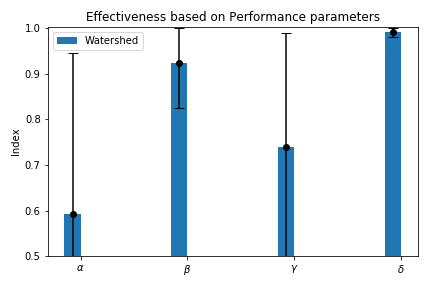
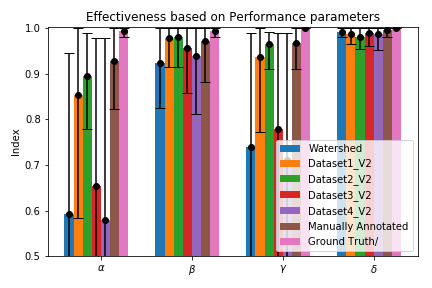
cv.commit

diff --git a/Watershed/FUNCTIONS_V3.py b/Watershed/FUNCTIONS_V3.py
@@ -860,8 +860,8 @@ def ID_renamer(ar):
     return ar
 
 def PLOT_BAR(Data, Algo,Title,Labels,Range,Save):
-    width = 0.15
-    gap = 0.2
+    width = 0.1
+    gap = 0.15
     index = -width*len(Algo)/2-gap
     
     x = np.arange(len(Labels))  # the label locations
@@ -890,40 +890,45 @@ def PLOT_BAR(Data, Algo,Title,Labels,Range,Save):
     plt.ylim(Range[0],Range[1])
     
     if "Plot" in Save:
-        plt.savefig(Title)
+        plt.savefig((Title+"_BAR"))
     
 def PLOT_BOX(Data, Algo,Title,Labels,Range,Save):
-    width = 0.15
-    gap = 0.2
-    index = -width*len(Algo)/2-gap
-    
-    x = np.arange(len(Labels))  # the label locations
-    fig, ax = plt.subplots()
-    
-    a = 0
-    X = x + index
-    while a < len(Algo): #[a][metric][min,AVG,max]
-        if a == 0: X += gap
-        else: X += width
-        
-        ax.bar(     X, Data[a][1], width=width, label=Algo[a].split("/",1)[-1] )
-        ax.errorbar(X, Data[a][1], yerr=[Data[a][0], Data[a][2]], fmt='ko', capsize=5)
-        a += 1
-        if a == len(Algo): X += width
 
-    # Add some text for labels, title and custom x-axis tick labels, etc.
-    plt.title(Title)
-    
-    ax.set_ylabel('Index')
-    ax.set_xticks(x)
-    ax.set_xticklabels(Labels)
-    
-    ax.legend()
-    fig.tight_layout()
-    plt.ylim(Range[0],Range[1])
-    
+    alphaData = {
+        "SD1": Data[1][2][0],
+        "SD2": Data[2][2][0],
+        "SD3": Data[3][2][0],
+        "SD4": Data[4][2][0],
+        "WS": Data[0][2][0],
+        "MA": Data[5][2][0]}
+
+    betaData = {"SD1": Data[1][2][1], "SD2": Data[2][2][1], "SD3": Data[3][2][1], "SD4": Data[4][2][1],
+                 "WS": Data[0][2][1], "MA": Data[5][2][1]}
+    gammaData = {"SD1": Data[1][2][2], "SD2": Data[2][2][2], "SD3": Data[3][2][2], "SD4": Data[4][2][2],
+                "WS": Data[0][2][2], "MA": Data[5][2][2]}
+    deltaData = {"SD1": Data[1][2][3], "SD2": Data[2][2][3], "SD3": Data[3][2][3], "SD4": Data[4][2][3],
+                "WS": Data[0][2][3], "MA": Data[5][2][3]}
+
+    fig, axs = plt.subplots(2, 2)
+
+    axs[0, 0].boxplot(alphaData.values(), patch_artist=True)
+    axs[0, 0].xaxis.set_tick_params(labelbottom=False)
+    axs[0, 0].set_title(r"$\alpha$")
+
+    axs[0, 1].boxplot(betaData.values(), patch_artist=True)
+    axs[0, 1].xaxis.set_tick_params(labelbottom=False)
+    axs[0, 1].set_title(r"$\beta$")
+
+    axs[1, 0].boxplot(gammaData.values(), patch_artist=True)
+    axs[1, 0].set_xticklabels(alphaData.keys())
+    axs[1, 0].set_title(r"$\gamma$")
+
+    axs[1, 1].boxplot(deltaData.values(), patch_artist=True)
+    axs[1, 1].set_xticklabels(alphaData.keys())
+    axs[1, 1].set_title(r"$\delta$")
+
     if "Plot" in Save:
-        plt.savefig(Title)
+        plt.savefig((Title+"_BOX"))
         
 def DELTA(matrix,matrix2):
     numero=findhighestIDnumber(matrix)
@@ -1226,20 +1231,20 @@ def ComparatorM(matrix,matrix2):
 #print(" For Stardist: identified", comparatorS[0],"misidentified",comparatorS[1])
 def DELTA(matrix,matrix2,DETAIL):
     if "print" in DETAIL[0]:
-        print(matrix.shape)
+        print("Truth matrix shape:",matrix.shape)
     matrix2 = np.pad(matrix2, ((0, 2), (0, 2)), mode='constant')
     #matrix = np.pad(matrix, ((0, 2), (0, 2)))
     #matrix = matrix.astype(int)
     #matrix2 = matrix2.astype(int)
     numero=findhighestIDnumber(matrix)
     if "print" in DETAIL[0]:
-        print(numero)
+        print("highest T_ID:",numero)
     numero2=findhighestIDnumber(matrix2)
     identified=0
     misidentified=0
     number=findlowestIDnumber(matrix)
     if "print" in DETAIL[0]:
-        print(numero,numero2)
+        print("highest F_ID:",numero2)
     numero=numero+1
     exist=existingFiberIds(matrix,numero)
     exist2 = existingFiberIds(matrix2, numero2)
@@ -1265,5 +1270,5 @@ def DELTA(matrix,matrix2,DETAIL):
             array.append((mp2[i],"groups of", i))
     delta = mui / numberoffibers2
     if "print" in DETAIL[0]:
-        print("delta",delta)
+        print("delta:",delta)
     return delta

diff --git a/Watershed/MAIN_V3.py b/Watershed/MAIN_V3.py
@@ -37,19 +37,19 @@ np.set_printoptions(threshold=sys.maxsize)
 print("\n----- START PROGRAM ----- \n")
 
 # Macro parameters (determine what to compute)
-Jurgen = 500 # for AI training sets # 100-1, 500-2
+Jurgen = False # for AI training sets # 100-1, 500-2
 
-Loop = "Random"  # Range, Random, List, All
+Loop = "List"  # Range, Random, List, All
 N,M = [],[]
 K = [Jurgen/10,2] #if random: number of picks in folder, seed
 Name = "Tape_B"
 Tape= "Cropped" #Large, Cropped, none=smalls
 
-Detail = [["print", "", ""], 250]  # draw/print/save, substep Dt
+Detail = [["print", "", "save"], 250]  # draw/print/save, substep Dt
 
-Compute = ["WT","CV","",""] #WT,CV,CP,"PL"
+Compute = ["","","CP","PL"] #WT,CV,CP,"PL"
 
-Save = ["", "Matrix", "", ""] #"Img", "Matrix", "Extra", "Plot"
+Save = ["", "", "", "Plot"] #"Img", "Matrix", "Extra", "Plot"
 TypeOUT = [".png", ".csv"]
 
 # Program parameters :
@@ -66,7 +66,7 @@ CP_Algorithms = [               #chosen algos
         "AI results/Dataset3_V2",
         "AI results/Dataset4_V2",
         "Annotated/Manually Annotated",
-        "Annotated/Ground Truth/"
+        #"Annotated/Ground Truth/"
         ]
 
 PL_Metric = [
@@ -455,6 +455,9 @@ if "CP" in Compute:
             PL_Range[1]+=errorMin
             Title = str("Effectiveness based on "+PL_Metric[m])
             PLOT_BAR(CP_stat, CP_Algorithms, Title ,PL_Labels[m],PL_Range,Save)
+            
+            
+            PLOT_BOX(CP_res, CP_Algorithms, Title ,PL_Labels[m],PL_Range,Save)
             m += 1
         
     T1 = time.time()

diff --git a/Watershed/MAIN_V2.py b/Watershed/MAIN_V2.py
@@ -27,7 +27,7 @@ import warnings
 #import PIL
 
 # own functions
-from FUNCTIONS_V2 import *
+from FUNCTIONS_V3 import *
 
 # init
 warnings.filterwarnings('ignore')
@@ -61,12 +61,12 @@ CP_Parameters = [0.7,0.7,"M"]  # cutoff
 CP_GroundTruth = "Annotated/Ground Truth/"   #sub-folder
 CP_Algorithms = [               #chosen algos
         "Watershed",
-        #"AI results/Dataset1_V2",
-        #"AI results/Dataset2_V2",
-        #"AI results/Dataset3_V2",
-        #"AI results/Dataset4_V2",
-        #"Annotated/Manually Annotated",
-        #"Annotated/Ground Truth/"
+        "AI results/Dataset1_V2",
+        "AI results/Dataset2_V2",
+        "AI results/Dataset3_V2",
+        "AI results/Dataset4_V2",
+        "Annotated/Manually Annotated",
+        "Annotated/Ground Truth/"
         ]
 
 PL_Metric = [
